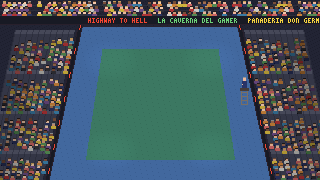
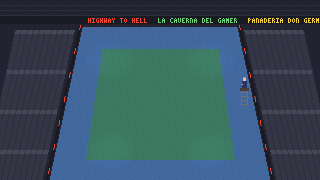
Tenis: el publico se mueve (cada persona aparte: se para, aplaude, uy y la ola)

Changed region(s): [[0.75, 0.1944, 1.0, 1.0], [0.0, 0.1944, 0.25, 1.0], [0.0, 0.0, 1.0, 0.1111]]

diff --git a/tools/art/draw_tenis_coliseo.py b/tools/art/draw_tenis_coliseo.py
@@ -8,9 +8,12 @@ Aquí va lo quieto: el piso del coliseo, el azul de afuera, el verde de adentro,
 patrocinadores (los del barrio), las tribunas con la gente, los reflectores y la silla del juez. Las
 rayas, la red, los jugadores y la pelota los pinta el juego encima.
 
-Salida: assets/tenis/coliseo.png (el público sentado) y coliseo_grita.png (el mismo público de pie,
-con los brazos arriba: para cuando hay un punto bueno).
+Salida: assets/tenis/coliseo.png (las tribunas vacías) y el público aparte, para que se mueva
+(TenisPublico.gd): assets/tenis/publico.png, una fila de cuadritos por persona (FRAMES, de CELL_W x
+CELL_H; la persona en (0, ORIGIN_Y) del cuadrito), y publico.json: por persona [x, y, bandera, perezoso,
+ola] en el orden en que se pintan (de atrás para adelante).
 Uso: python tools/art/draw_tenis_coliseo.py  (desde la carpeta del proyecto)"""
+import json
 import random
 from pathlib import Path
 from PIL import Image
@@ -41,14 +44,16 @@ def w2s(x, y):
 
 
 class Img:
-    def __init__(self):
-        self.im = Image.new("RGB", (W, H), FLOOR)
+    def __init__(self, w=W, h=H, bg=FLOOR):
+        self.w, self.h = w, h
+        self.alpha = len(bg) == 4
+        self.im = Image.new("RGBA" if self.alpha else "RGB", (w, h), bg)
         self.px = self.im.load()
 
     def dot(self, x, y, c):
         x, y = int(x), int(y)
-        if 0 <= x < W and 0 <= y < H:
-            self.px[x, y] = c
+        if 0 <= x < self.w and 0 <= y < self.h:
+            self.px[x, y] = c + (255,) if self.alpha and len(c) == 3 else c
 
     def rect(self, x0, y0, x1, y1, c):
         for y in range(int(y0), int(y1) + 1):
@@ -102,36 +107,96 @@ SHIRTS = [(206, 52, 56), (246, 210, 64), (40, 52, 104), (238, 238, 232), (90, 16
           (120, 80, 150), (240, 150, 60), (60, 140, 190), (50, 50, 60)]
 
 
-def person(img, x, y, rng, standing, back=False):
-    """Una persona de la tribuna (5x6): cabeza 3x3 con pelo, hombros de su camiseta. De pie, más alta y
-    con los brazos arriba (o una bandera)."""
+# Lo que puede hacer cada persona (las columnas de publico.png, en este orden; TenisPublico.gd igual).
+FRAMES = ["sentado", "aplaude1", "aplaude2", "arriba1", "arriba2", "uy", "bandera1", "bandera2", "mira"]
+CELL_W, CELL_H, ORIGIN_Y = 8, 11, 5
+
+
+def person_kind(rng):
+    """Cómo es (y queda siendo) una persona: piel, pelo, camiseta, pelo largo, si trae bandera."""
     skin, hair, shirt = rng.choice(SKINS), rng.choice(HAIRS), rng.choice(SHIRTS)
     shirt = tuple(int(c * 0.8 + 50 * 0.2) for c in shirt)    # en la penumbra de la tribuna
-    up = 1 if standing else 0
-    y -= up
+    return {"skin": skin, "hair": hair, "shirt": shirt, "long": rng.random() < 0.15, "flag": rng.random() < 0.12,
+            "lazy": rng.random() < 0.13}
+
+
+def person(img, x, y, k, frame, back=False):
+    """Una persona de la tribuna (5x6): cabeza 3x3 con pelo, hombros de su camiseta. Sentada (y
+    aplaudiendo, o con las manos en la cabeza: "uy"), o de pie (un pixel más arriba) con los brazos
+    arriba o la bandera de Colombia. "mira": voltea la cabeza (el pelo de un lado)."""
+    skin, hair, shirt = k["skin"], k["hair"], k["shirt"]
+    standing = frame.startswith("arriba") or frame.startswith("bandera")
+    if standing:
+        y -= 1
     img.rect(x, y + 3, x + 4, y + 5, shirt)                 # los hombros
     img.dot(x, y + 5, tuple(max(0, c - 30) for c in shirt))
     img.rect(x + 1, y, x + 3, y + 2, skin)                  # la cabeza
     img.rect(x + 1, y, x + 3, y, hair)
     if back:
         img.rect(x + 1, y, x + 3, y + 1, hair)
-    elif rng.random() < 0.15:
+    elif frame == "mira":
+        img.dot(x + 1, y + 1, hair)
+        img.dot(x + 1, y + 2, hair)
+    elif k["long"]:
         img.dot(x + 1, y + 1, hair)                          # pelo largo, de lado
-    if standing:
-        kind = rng.random()
-        if kind < 0.55:                                      # los brazos arriba
-            img.dot(x, y + 1, skin)
-            img.dot(x, y + 2, shirt)
-            img.dot(x + 4, y + 1, skin)
-            img.dot(x + 4, y + 2, shirt)
-        elif kind < 0.65:                                    # la bandera de Colombia
-            img.rect(x + 4, y - 3, x + 6, y - 3, (246, 210, 64))
-            img.rect(x + 4, y - 2, x + 6, y - 2, (40, 60, 150))
-            img.dot(x + 4, y - 1, (206, 52, 56))
-            img.dot(x + 5, y - 1, (206, 52, 56))
-            img.dot(x + 6, y - 1, (206, 52, 56))
-            img.dot(x + 4, y, (90, 80, 70))
-            img.dot(x + 4, y + 1, (90, 80, 70))
+    if frame in ("aplaude1", "aplaude2"):                    # las manos al frente: juntas, separadas
+        if frame == "aplaude1":
+            img.dot(x + 2, y + 3, skin)
+        else:
+            img.dot(x + 1, y + 3, skin)
+            img.dot(x + 3, y + 3, skin)
+    elif frame == "uy":                                      # las manos en la cabeza
+        img.dot(x, y, skin)
+        img.dot(x, y + 1, shirt)
+        img.dot(x + 4, y, skin)
+        img.dot(x + 4, y + 1, shirt)
+    elif frame.startswith("arriba"):                         # los brazos arriba (y más arriba)
+        hy = y + (1 if frame == "arriba1" else -1)
+        img.dot(x, hy, skin)
+        img.dot(x + 4, hy, skin)
+        for yy in range(hy + 1, y + 3):
+            img.dot(x, yy, shirt)
+            img.dot(x + 4, yy, shirt)
+    elif frame.startswith("bandera"):                        # la bandera, ondeando
+        w = 1 if frame == "bandera2" else 0
+        img.rect(x + 4, y - 3 + w, x + 6, y - 3 + w, (246, 210, 64))
+        img.rect(x + 4, y - 2 + w, x + 6, y - 2 + w, (40, 60, 150))
+        for xx in range(4, 7):
+            img.dot(x + xx, y - 1 + (w if xx > 4 else 0), (206, 52, 56))
+        img.dot(x + 6 - w, y - 3, (246, 210, 64))
+        img.dot(x + 4, y, (90, 80, 70))
+        img.dot(x + 4, y + 1, (90, 80, 70))
+        img.dot(x, y + 1, skin)
+        img.dot(x, y + 2, shirt)
+
+
+class Crowd:
+    """El público, aparte del fondo: cada persona con su cuadrito por FRAMES (ya oscurecida según la
+    grada) y lo que el juego necesita saber de ella."""
+    def __init__(self):
+        self.people = []   # (x, y, kind, shade, back, ola)
+
+    def add(self, x, y, kind, shade, back, ola):
+        self.people.append((x, y, kind, shade, back, ola))
+
+    def sheet(self):
+        out = Image.new("RGBA", (CELL_W * len(FRAMES), CELL_H * len(self.people)), (0, 0, 0, 0))
+        data = []
+        for i, (x, y, k, shade, back, ola) in enumerate(self.people):
+            for f, frame in enumerate(FRAMES):
+                tile = Img(CELL_W, CELL_H, (0, 0, 0, 0))
+                person(tile, 0, ORIGIN_Y, k, frame, back)
+                im = tile.im
+                if shade < 1.0:
+                    px = im.load()
+                    for yy in range(CELL_H):
+                        for xx in range(CELL_W):
+                            c = px[xx, yy]
+                            if c[3]:
+                                px[xx, yy] = tuple(int(v * shade) for v in c[:3]) + (255,)
+                out.alpha_composite(im, (f * CELL_W, i * CELL_H))
+            data.append([int(x), int(y), int(k["flag"]), int(k["lazy"]), round(ola, 3)])
+        return out, data
 
 
 STEP = (52, 54, 70)
@@ -139,7 +204,7 @@ STEP_D = (44, 46, 60)
 AISLE = (70, 72, 88)
 
 
-def stands_side(img, side, standing, seed):
+def stands_side(img, side, crowd, seed):
     """Una tribuna de costado: gradas paralelas a la valla, escalonadas hacia afuera (más arriba, más
     lejos), con pasillos de escalera cada tanto. Cada grada, un poco más oscura."""
     # Primero el cemento: la grada (clara) y su borde (oscuro), y los pasillos.
@@ -170,21 +235,12 @@ def stands_side(img, side, standing, seed):
             r = random.Random(seed * 1000 + row * 50 + k)
             if r.random() < 0.18:
                 continue                                     # un puesto vacío
-            before = img.im.copy()
-            person(img, x, sy, r, standing and r.random() < 0.85)
-            if shade < 1.0:
-                _dim_region(img, before, int(x) - 1, sy - 5, int(x) + 7, sy + 6, shade)
+            # La ola da la vuelta: sube por la izquierda, cruza el fondo y baja por la derecha.
+            ola = (176 - sy) / 143 * 0.35 if side < 0 else 0.65 + (sy - 33) / 143 * 0.35
+            crowd.add(x, sy, person_kind(r), shade, False, ola)
 
 
-def _dim_region(img, before, x0, y0, x1, y1, k):
-    b = before.load()
-    for y in range(max(0, y0), min(H, y1 + 1)):
-        for x in range(max(0, x0), min(W, x1 + 1)):
-            if img.px[x, y] != b[x, y]:
-                img.px[x, y] = tuple(int(c * k) for c in img.px[x, y])
-
-
-def stands_back(img, standing, seed):
+def stands_back(img, crowd, seed):
     """La tribuna del fondo, detrás del de arriba: de espaldas a la pared, mirando la cancha."""
     for row in range(3):
         img.rect(0, row * 5 + 5, W - 1, row * 5 + 5, STEP_D)
@@ -196,7 +252,7 @@ def stands_back(img, standing, seed):
             r = random.Random(seed * 77 + row * 100 + k)
             if r.random() < 0.12:
                 continue
-            person(img, x, y, r, standing and r.random() < 0.8)
+            crowd.add(x, y, person_kind(r), 1.0, False, 0.35 + x / W * 0.3)
 
 
 def boards(img):
@@ -278,25 +334,33 @@ def floor(img):
                 img.dot(x, y, FLOOR_D)
 
 
-def build(standing):
+def build():
     img = Img()
+    crowd = Crowd()
     floor(img)
     court(img)
     outline_trap(img)
-    stands_back(img, standing, 3)
+    stands_back(img, crowd, 3)
     boards(img)
-    stands_side(img, -1, standing, 11)
-    stands_side(img, 1, standing, 23)
+    stands_side(img, -1, crowd, 11)
+    stands_side(img, 1, crowd, 23)
     umpire(img)
     lights(img)
-    return img.im
+    return img.im, crowd
 
 
 def main():
     OUT.mkdir(parents=True, exist_ok=True)
-    build(False).save(OUT / "coliseo.png")
-    build(True).save(OUT / "coliseo_grita.png")
-    print("ok")
+    bg, crowd = build()
+    bg.save(OUT / "coliseo.png")
+    sheet, data = crowd.sheet()
+    sheet.save(OUT / "publico.png")
+    (OUT / "publico.json").write_text(json.dumps({"cell": [CELL_W, CELL_H], "origin_y": ORIGIN_Y,
+                                                  "frames": FRAMES, "people": data}), encoding="utf-8")
+    old = OUT / "coliseo_grita.png"   # (antes: el público de pie, en otra foto)
+    if old.exists():
+        old.unlink()
+    print("ok:", len(data), "personas")
 
 
 if __name__ == "__main__":

diff --git a/docs/TENIS.md b/docs/TENIS.md
@@ -13,6 +13,7 @@ Todo está en `scripts/tenis/`. La simulación no sabe nada de pantallas.
 | `TenisSim.gd` | El partido en pasos fijos de 1/60 s: la pelota (altura, efecto, bote, curva), los golpes, el error, los puntos y el ánimo. La misma semilla da el mismo partido. |
 | `TenisAbilities.gd` | Un solo marco para todas las habilidades (`DEFS`) y las reglas de sus contras. |
 | `TenisAI.gd` | La máquina. Ve lo mismo que un jugador y usa el mismo error. No lee lo que aprieta el humano. |
+| `TenisPublico.gd` | El fondo del coliseo y la gente de las tribunas, cada uno por su lado: se para, aplaude, se agarra la cabeza y hace la ola. |
 | `TenisMatch.gd` | La cancha que se dibuja y se juega (`scenes/tenis/TenisMatch.tscn`). Si se abre sin `setup` (F6), primero se escogen el tenista y el rival. Con `ballboy`, él es el recogebolas; con `abandon_games`, el de abajo abandona y él termina el partido. |
 | `TenisCuadro.gd` | El dibujo del cuadro (lo usan el torneo suelto y la jornada). |
 | `TenisHistoria.gd` | La historia, sin pantallas: la deuda, las fechas, la paga, cómo abandona cada uno y quién abandona cada día. |
@@ -180,10 +181,14 @@ Ganando las cuatro jornadas se juntan unos $147.000; trabajando las cuatro y per
 
 **El coliseo por fuera** (en el barrio) sale de `tools/art/draw_tenis_afuera.py` (`assets/barrio/coliseo_afuera.png` y su `.json`, más el ícono de la raqueta).
 
-**El coliseo** sale de `tools/art/draw_tenis_coliseo.py` y queda en `assets/tenis/coliseo.png`, más `coliseo_grita.png` con el público de pie.
+**El coliseo** sale de `tools/art/draw_tenis_coliseo.py`: `assets/tenis/coliseo.png` (las tribunas vacías) y la gente aparte, para que se mueva: `publico.png` (una fila por persona, ya oscurecida según la grada) y `publico.json` (dónde va cada una, si trae bandera, si es perezosa y en qué punto de la ola está).
 - La cancha va en perspectiva: de 10.5 px por metro en el fondo a 13.5 en el frente, y 4.6 a lo largo. Es la misma cuenta de `TenisMatch.w2s`; si se cambia en un lado, se cambia en el otro.
 - Tiene tribunas con gradas, pasillos y puestos vacíos, la tribuna del fondo, las vallas con los patrocinadores del barrio (la Caverna del Gamer, la panadería de Don Germán), los reflectores y la silla del juez.
-- La gente se para después de un ganador, de un peloteo largo o cuando se cierra un juego.
+- **El público** (`TenisPublico.gd`, 526 personas) tiene nueve cuadros por persona: sentada, aplaudiendo (2), de pie con los brazos arriba (2), con las manos en la cabeza, con la bandera ondeando (2) y volteando a mirar.
+  - Con un ace, un ganador de peloteo largo o un juego que se cierra, se para casi todo el estadio, primero los que estaban cerca del punto. Con un ganador corto o un peloteo de 12, la mitad. Con el resto de puntos, aplauden unos cuantos.
+  - Con un error fácil o una doble falta, unos cuantos se agarran la cabeza (con el "uuuy").
+  - La ola da la vuelta al estadio (sube por la izquierda, cruza el fondo y baja por la derecha) cuando se cierra un set y cuando él toma la raqueta: el público no sabe quién es, pero le hace la ola.
+  - Sola, todo el tiempo: alguno aplaude, alguno se para a estirarse y alguno voltea a mirar. Los perezosos (uno de cada ocho) no se paran por nada, ni por la ola.
 
 **Las caras para los diálogos** salen de `tools/art/draw_retratos.py` (`assets/portraits/<id>.png`), con los colores de su dibujo de la cancha. En `Dialogue.SPEAKERS`, cada uno lleva su apodo en la placa.
 - Los diez: Bublikov despeinado y aburrido, Sabalenkova gritando (la cola rubia, el sudor), Monfiz con la balaca amarilla, Yokovich con la franja azul, Moutette crespo y sudando, Tiafuego con trencitas, Sheltron rapado, Kyrgistán con la gorra roja al revés, la chivera y la cadena, Pecador pelirrojo con pecas, y Fedorer con la balaca blanca anudada atrás.
@@ -253,5 +258,4 @@ Hay piedra, papel o tijera a propósito: los de toque (cortados, dejadas) les ga
 
 ## Lo que falta
 
-- **El dibujo que falta:** un público que se mueva más.
 - **Los diálogos:** en una tabla de datos.
